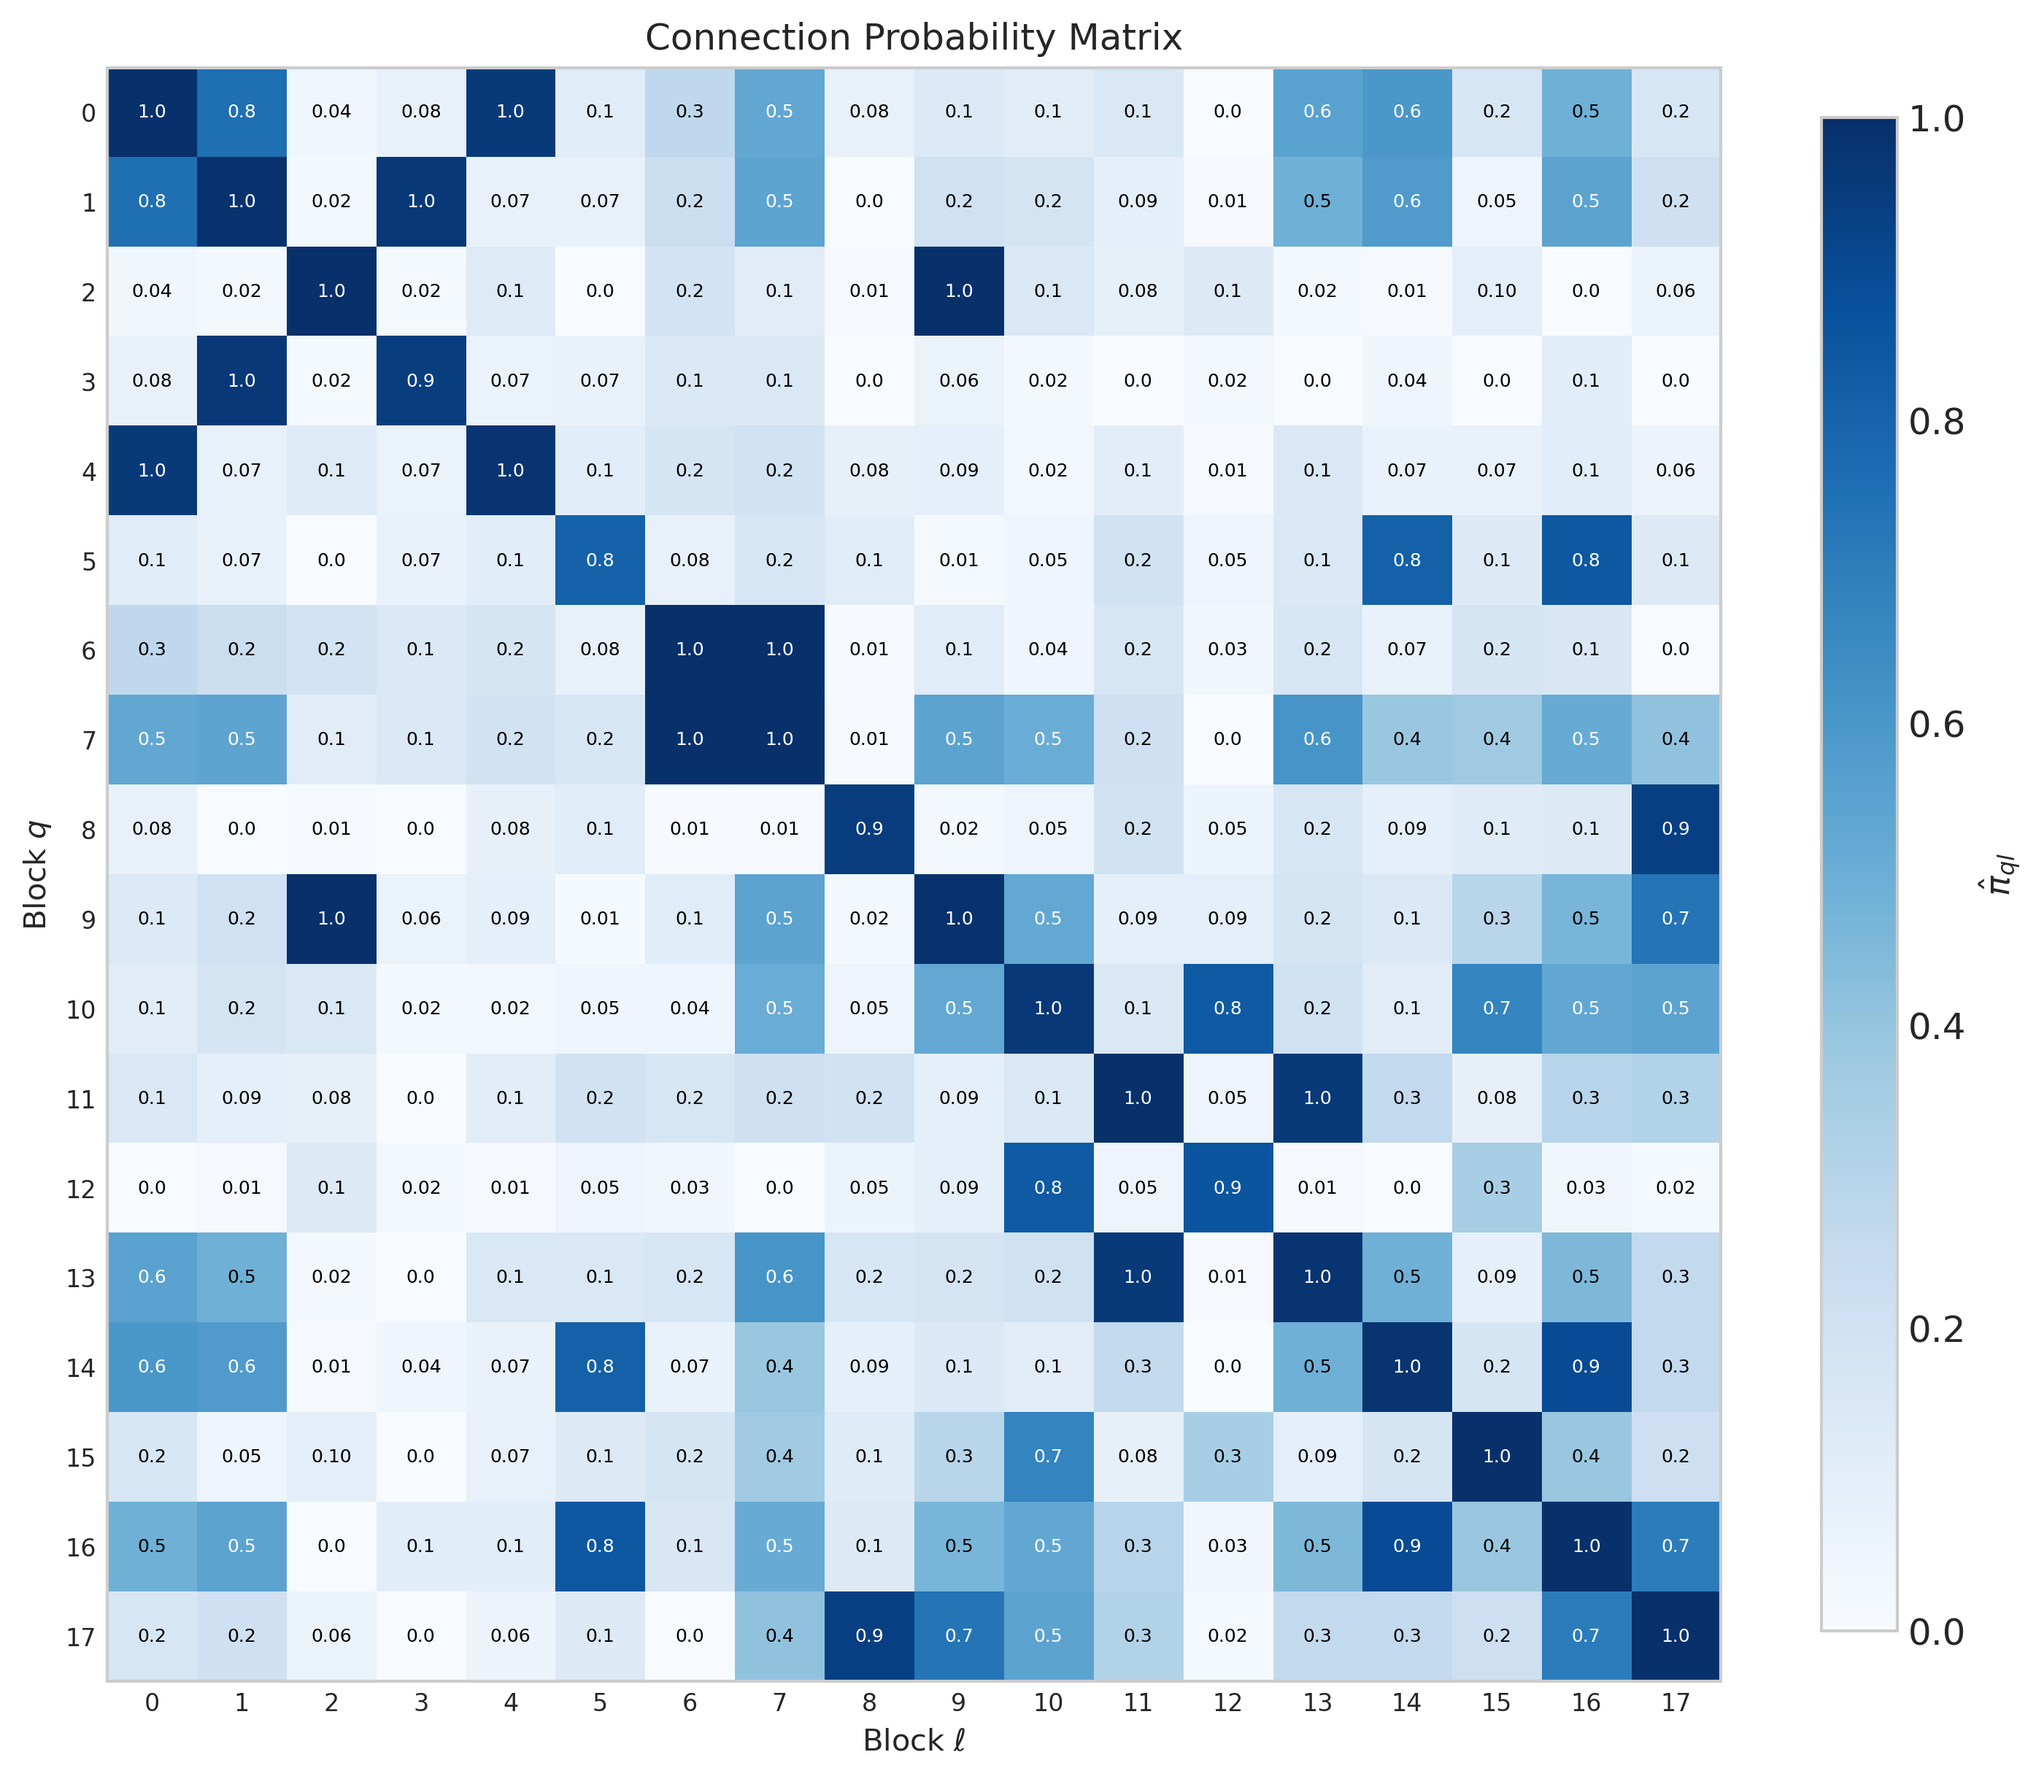
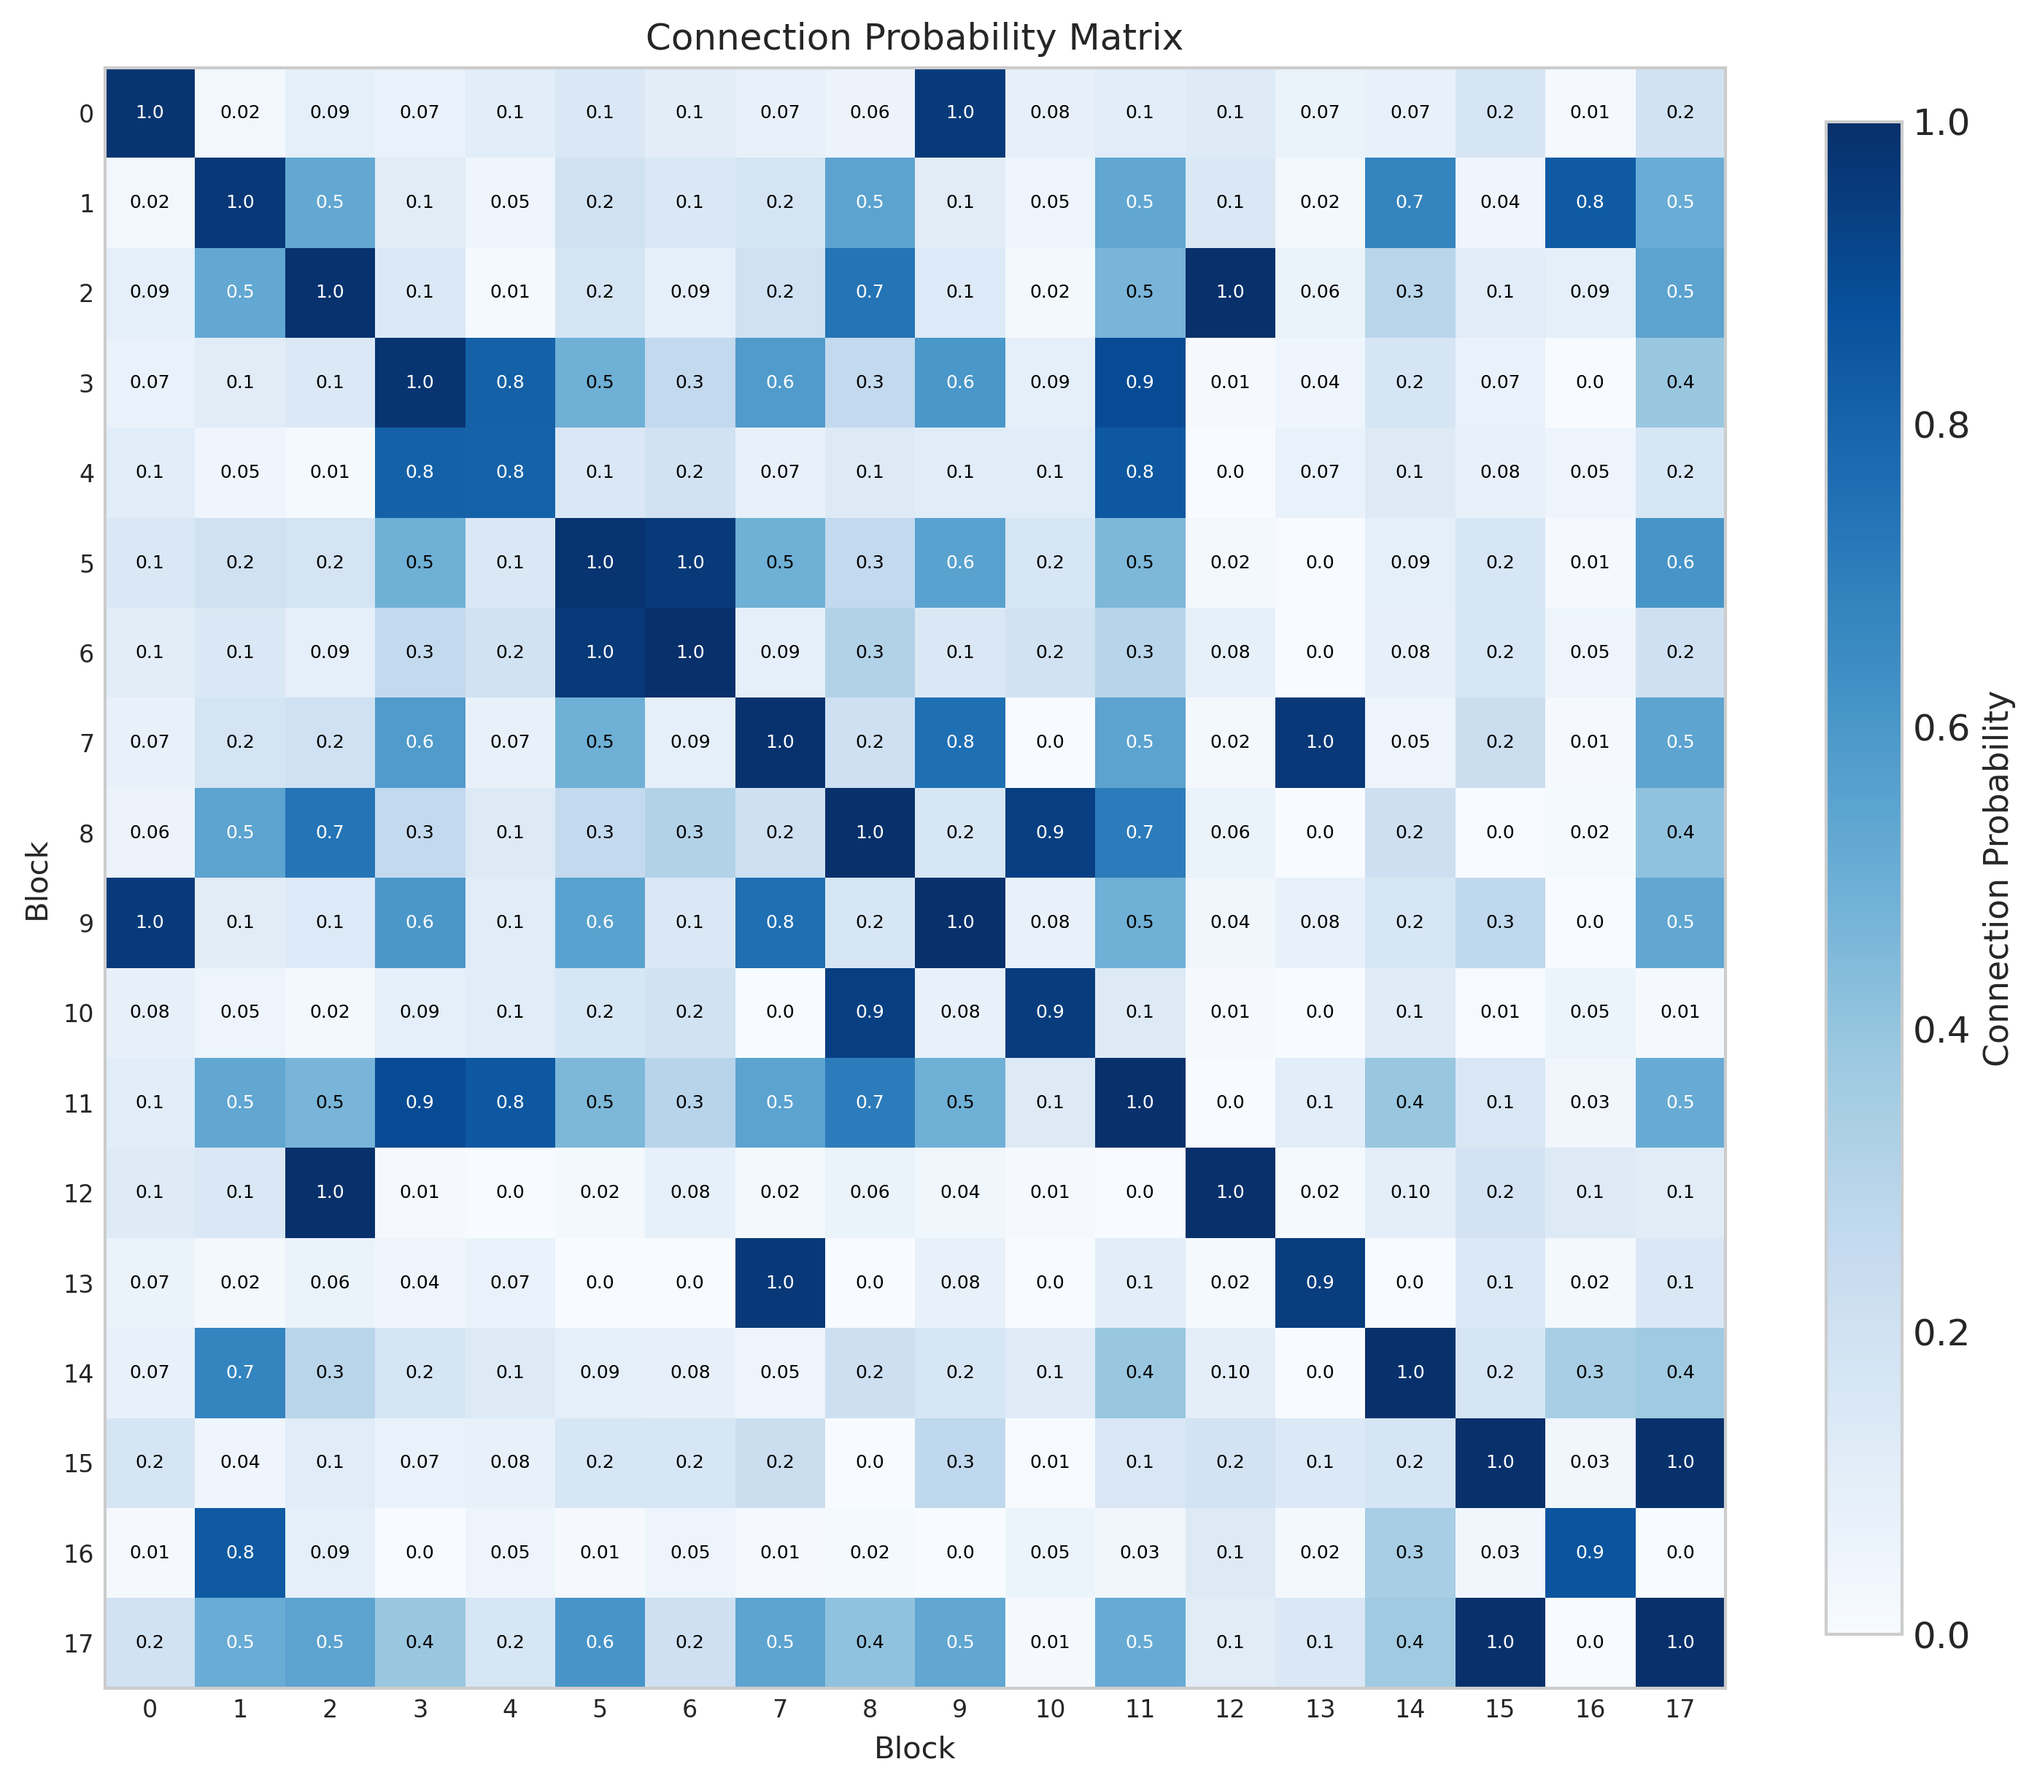
Remove LaTeX from matplotlib labels for compatibility

diff --git a/src/visualization.py b/src/visualization.py
@@ -210,15 +210,15 @@ def plot_sbm_matrix(
     
     # Add colorbar
     cbar = plt.colorbar(im, ax=ax, shrink=0.8)
-    cbar.set_label(r'$\hat{\pi}_{ql}$', fontsize=11)
+    cbar.set_label('Connection Probability', fontsize=11)
     
     # Add labels - just numbers, no "Block" prefix
     ax.set_xticks(range(n_blocks))
     ax.set_yticks(range(n_blocks))
     ax.set_xticklabels(range(n_blocks), fontsize=8)
     ax.set_yticklabels(range(n_blocks), fontsize=8)
-    ax.set_xlabel('Block $\\ell$', fontsize=10)
-    ax.set_ylabel('Block $q$', fontsize=10)
+    ax.set_xlabel('Block', fontsize=10)
+    ax.set_ylabel('Block', fontsize=10)
     ax.set_title('Connection Probability Matrix', fontsize=12)
     
     # Remove grid lines
@@ -301,15 +301,15 @@ def plot_dynamic_sbm_transitions(
     im = ax.imshow(transition_matrix, cmap='YlOrRd', aspect='equal', vmin=0, vmax=1)
     
     cbar = plt.colorbar(im, ax=ax, shrink=0.8)
-    cbar.set_label('$P(b_{t+1} | b_t)$', fontsize=11)
+    cbar.set_label('Transition Probability', fontsize=11)
     
     # Just numbers on axes
     ax.set_xticks(range(n_blocks))
     ax.set_yticks(range(n_blocks))
     ax.set_xticklabels(block_labels, fontsize=8)
     ax.set_yticklabels(block_labels, fontsize=8)
-    ax.set_xlabel('Block at $t+1$', fontsize=10)
-    ax.set_ylabel('Block at $t$', fontsize=10)
+    ax.set_xlabel('Block (t+1)', fontsize=10)
+    ax.set_ylabel('Block (t)', fontsize=10)
     ax.set_title('Block Transition Probabilities', fontsize=12)
     
     # Remove grid
